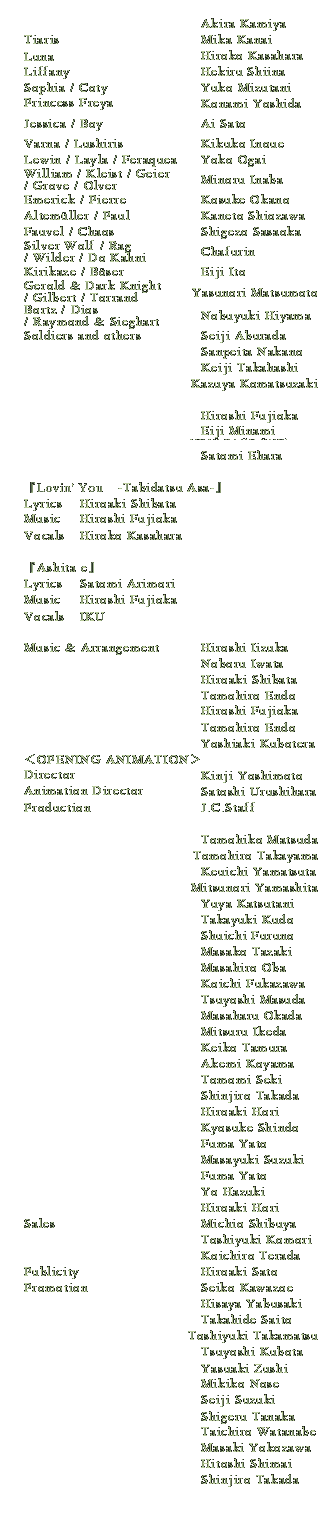
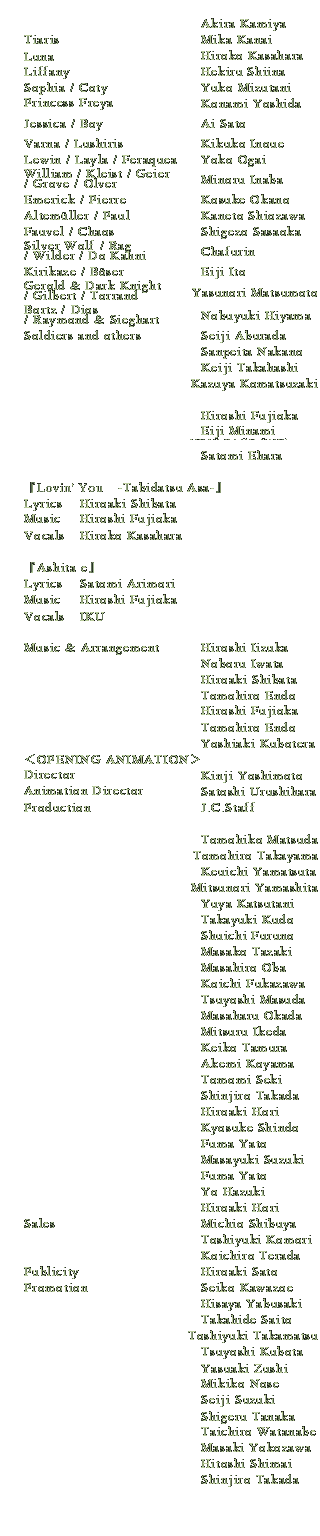
fix(staff): keep the roll's glyphs inside their PROG_2 bands

Changed region(s): [[0.0625, 0.1562, 0.4688, 0.2188], [0.0938, 0.0938, 0.2188, 0.125], [0.2812, 0.0938, 0.3438, 0.125]]

diff --git a/tests/test_staff_roll.py b/tests/test_staff_roll.py
@@ -125,6 +125,19 @@ class TestBuiltStaffRoll(unittest.TestCase):
                     self.assertEqual(en[y * 320 + x], self.overlay[x, y], (x, y))
         self.assertTrue(all(en[i] == jp[i] for i in range(len(en)) if i not in inside))
 
+    def test_no_glyph_straddles_a_band_boundary(self):
+        """PROG_2 FUN_06054c00 draws the roll as 55 bands (tops at 0x06057AB0)
+        and shows band i 12*i px lower (y = 12*i + top + base): a glyph cut by
+        a band boundary shows split on screen. Red state (overlay of
+        2026-10-14 07:42): the descenders of "/ Raymond & Sieghart" crossed 328."""
+        import struct
+        (prog2,) = _jp('LANG/PROG_2.BIN')
+        tops = struct.unpack_from('>56H', prog2, 0x06057AB0 - 0x06052800)
+        en = _nibbles(self.roll[38:])
+        for b in tops[1:-1]:
+            cut = [x for x in range(320) if en[(b - 1) * 320 + x] and en[b * 320 + x]]
+            self.assertEqual(cut, [], f'boundary {b}')
+
     def test_english_text_is_there(self):
         self.assertNotEqual(self.roll, self.jp_roll)
 
